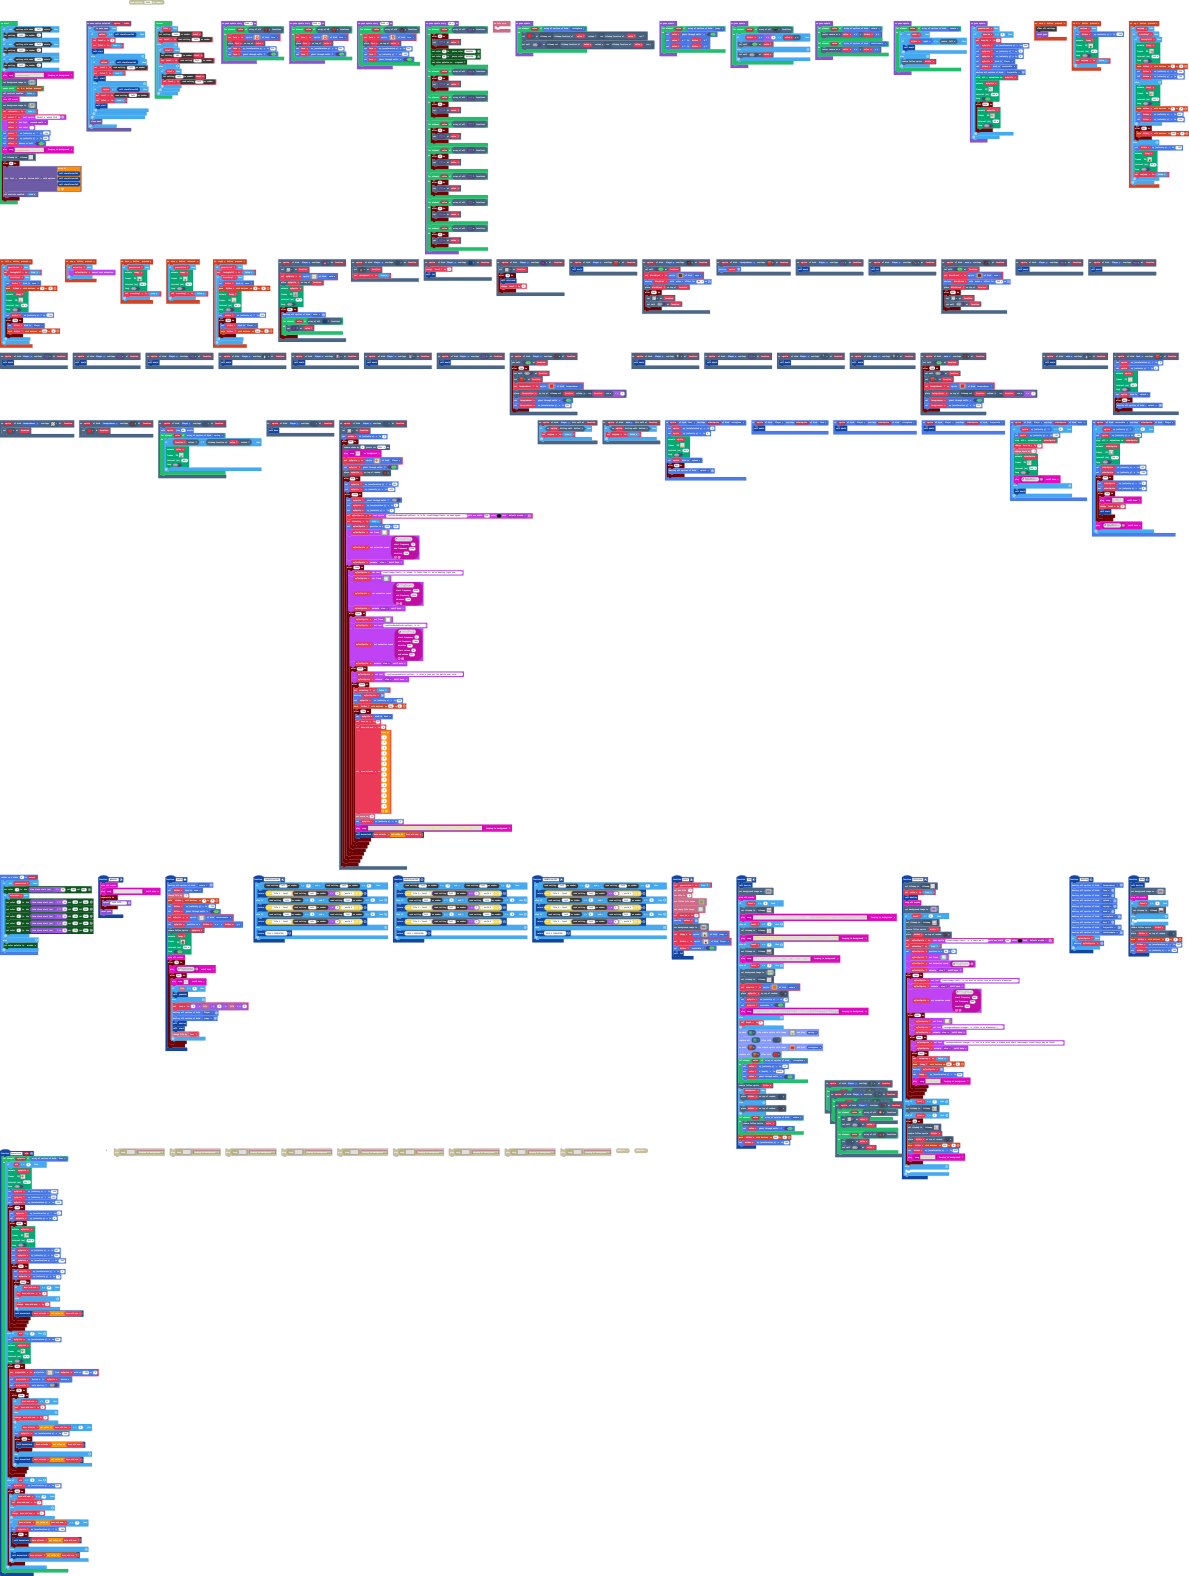
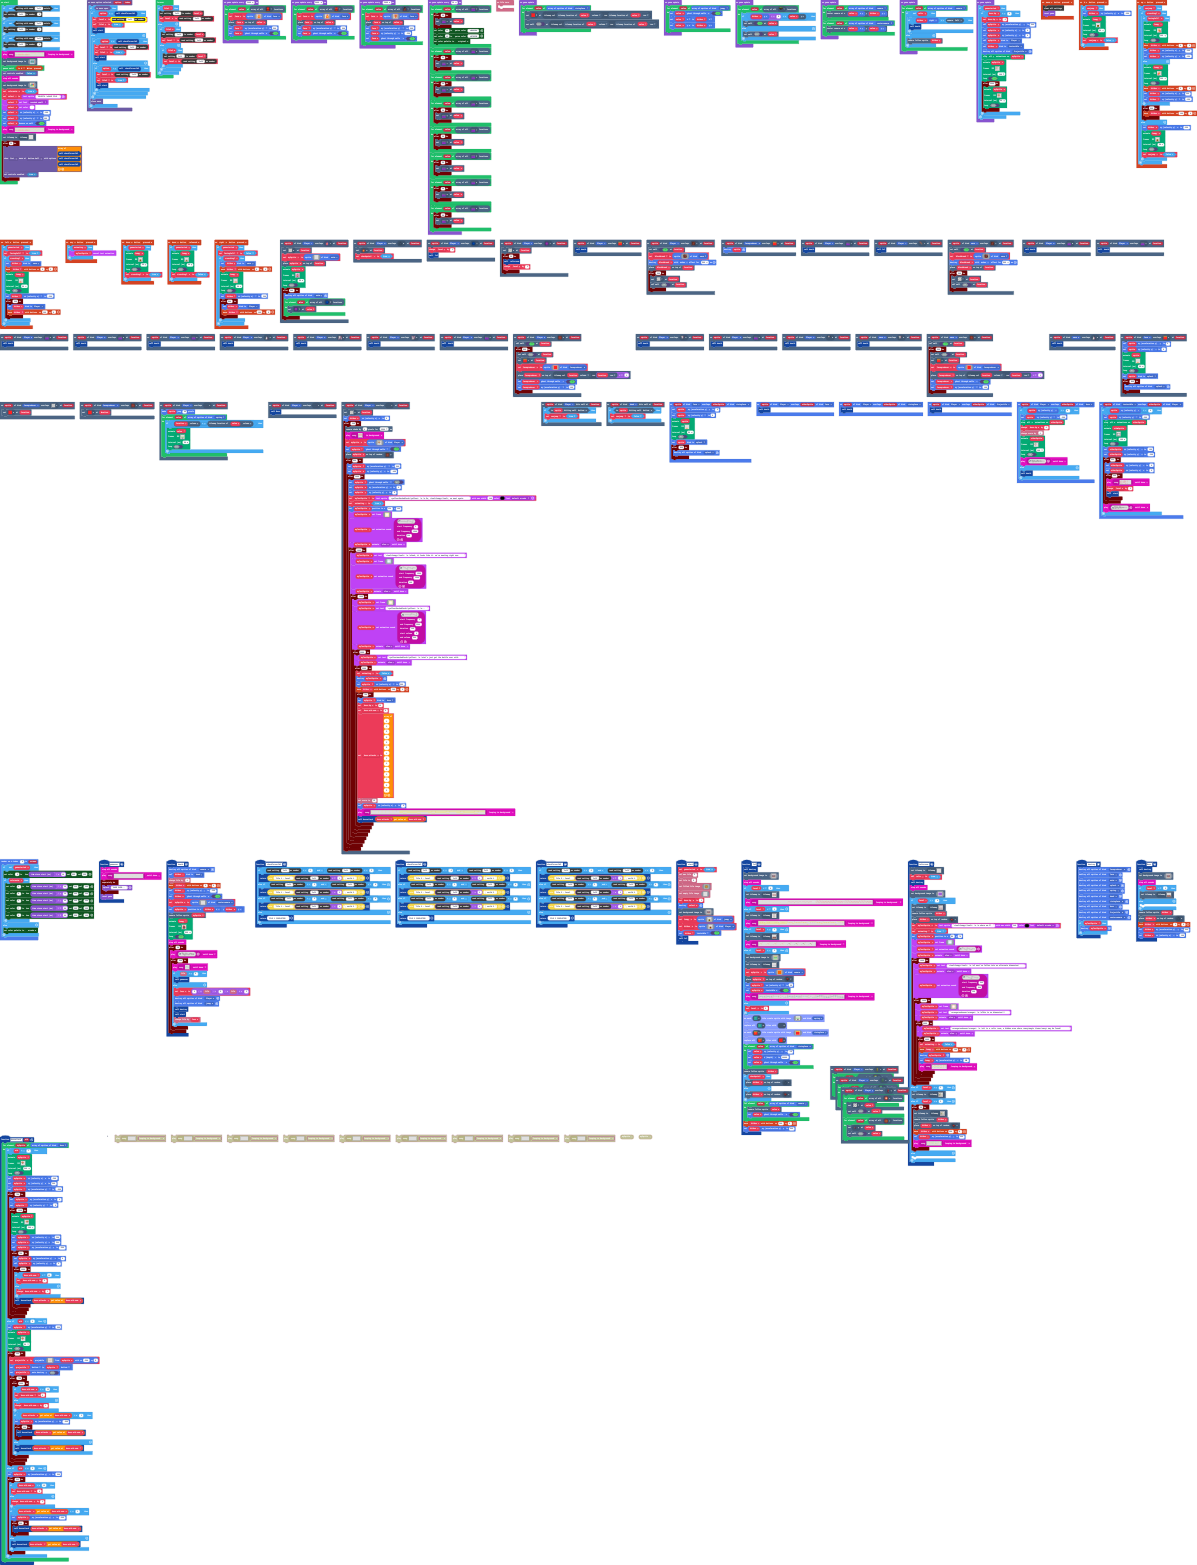
Update main.blocks, main.ts

Changed region(s): [[0.0, 0.0, 1.0, 0.7668], [0.0, 0.7054, 0.0934, 1.0], [0.0934, 0.7054, 0.529, 0.7361]]

diff --git a/main.ts b/main.ts
@@ -4026,7 +4026,7 @@ function start () {
 blockMenu.onMenuOptionSelected(function (option, index) {
     if (blockMenu.isMenuOpen()) {
         if (option == checkforworld1()) {
-            level = 3
+            level = blockSettings.readNumber("lvl1")
             file1 = true
             start()
         } else {
